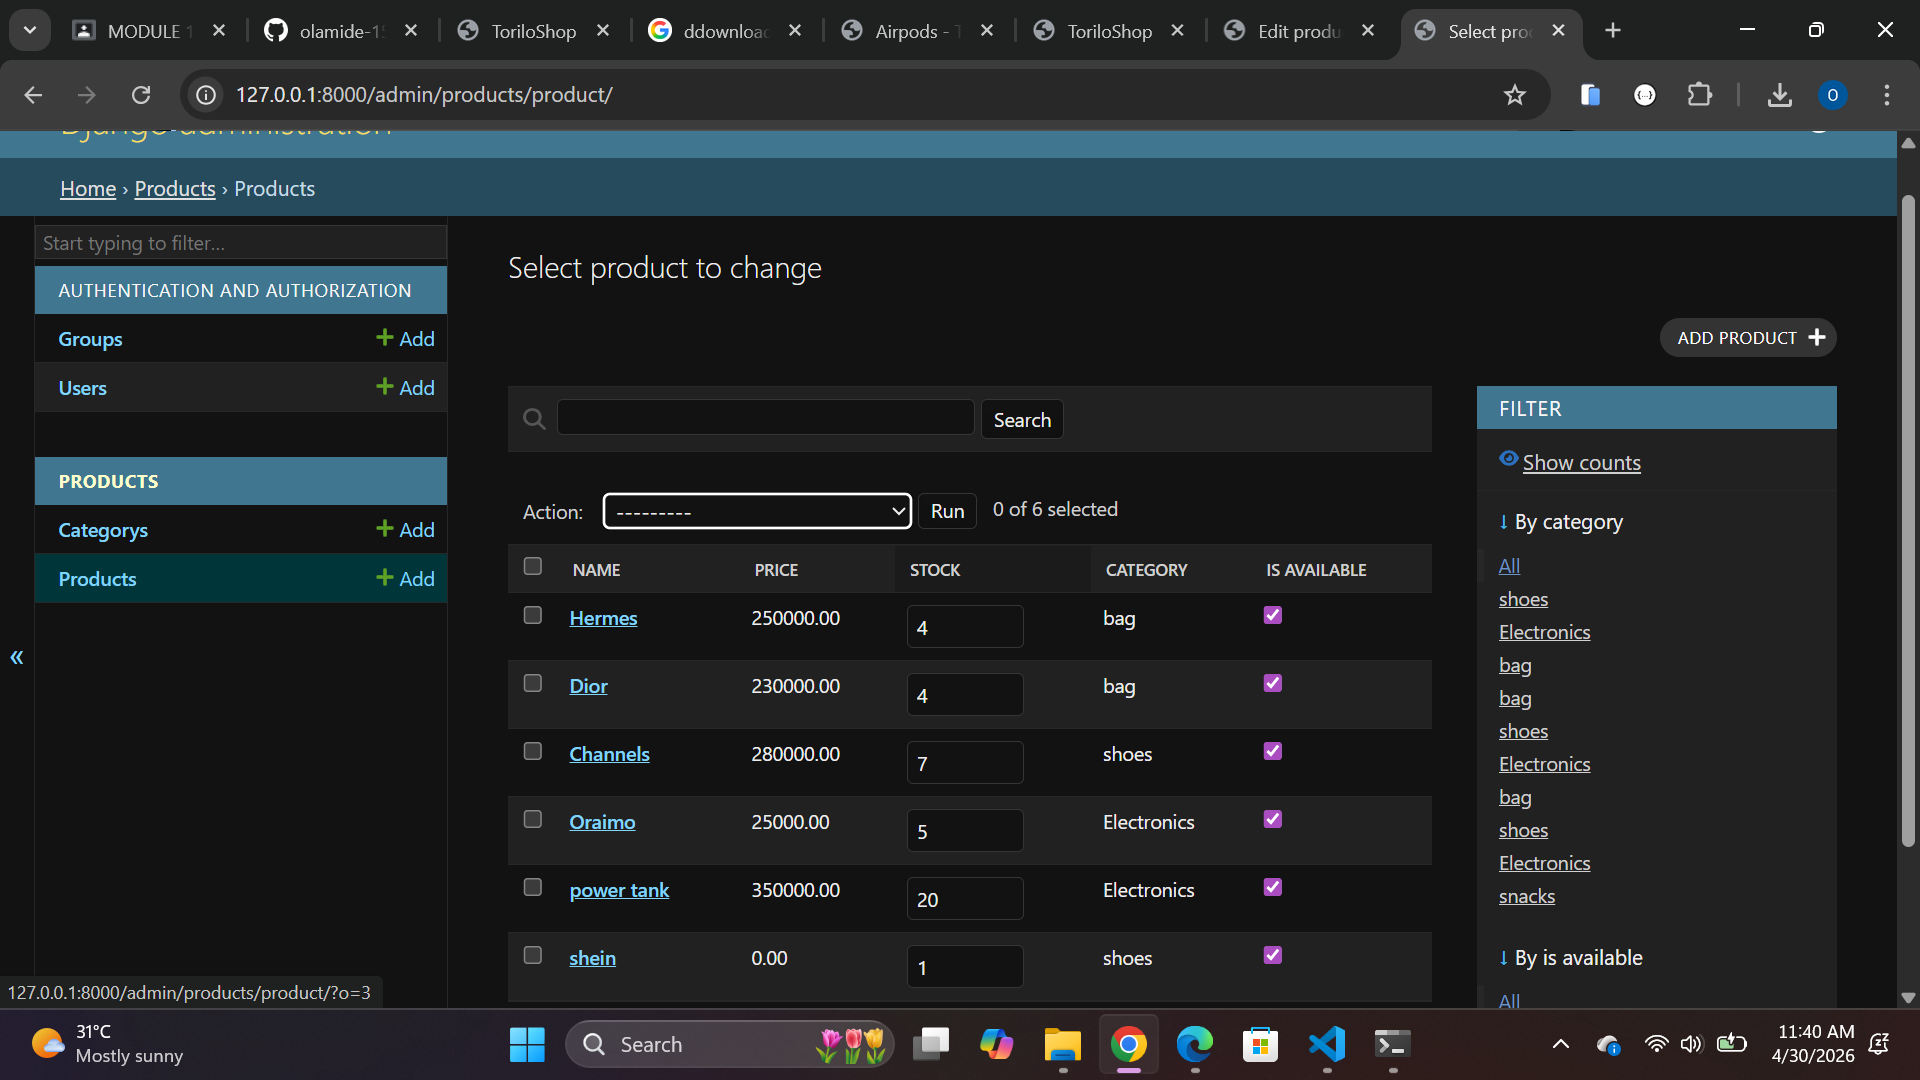
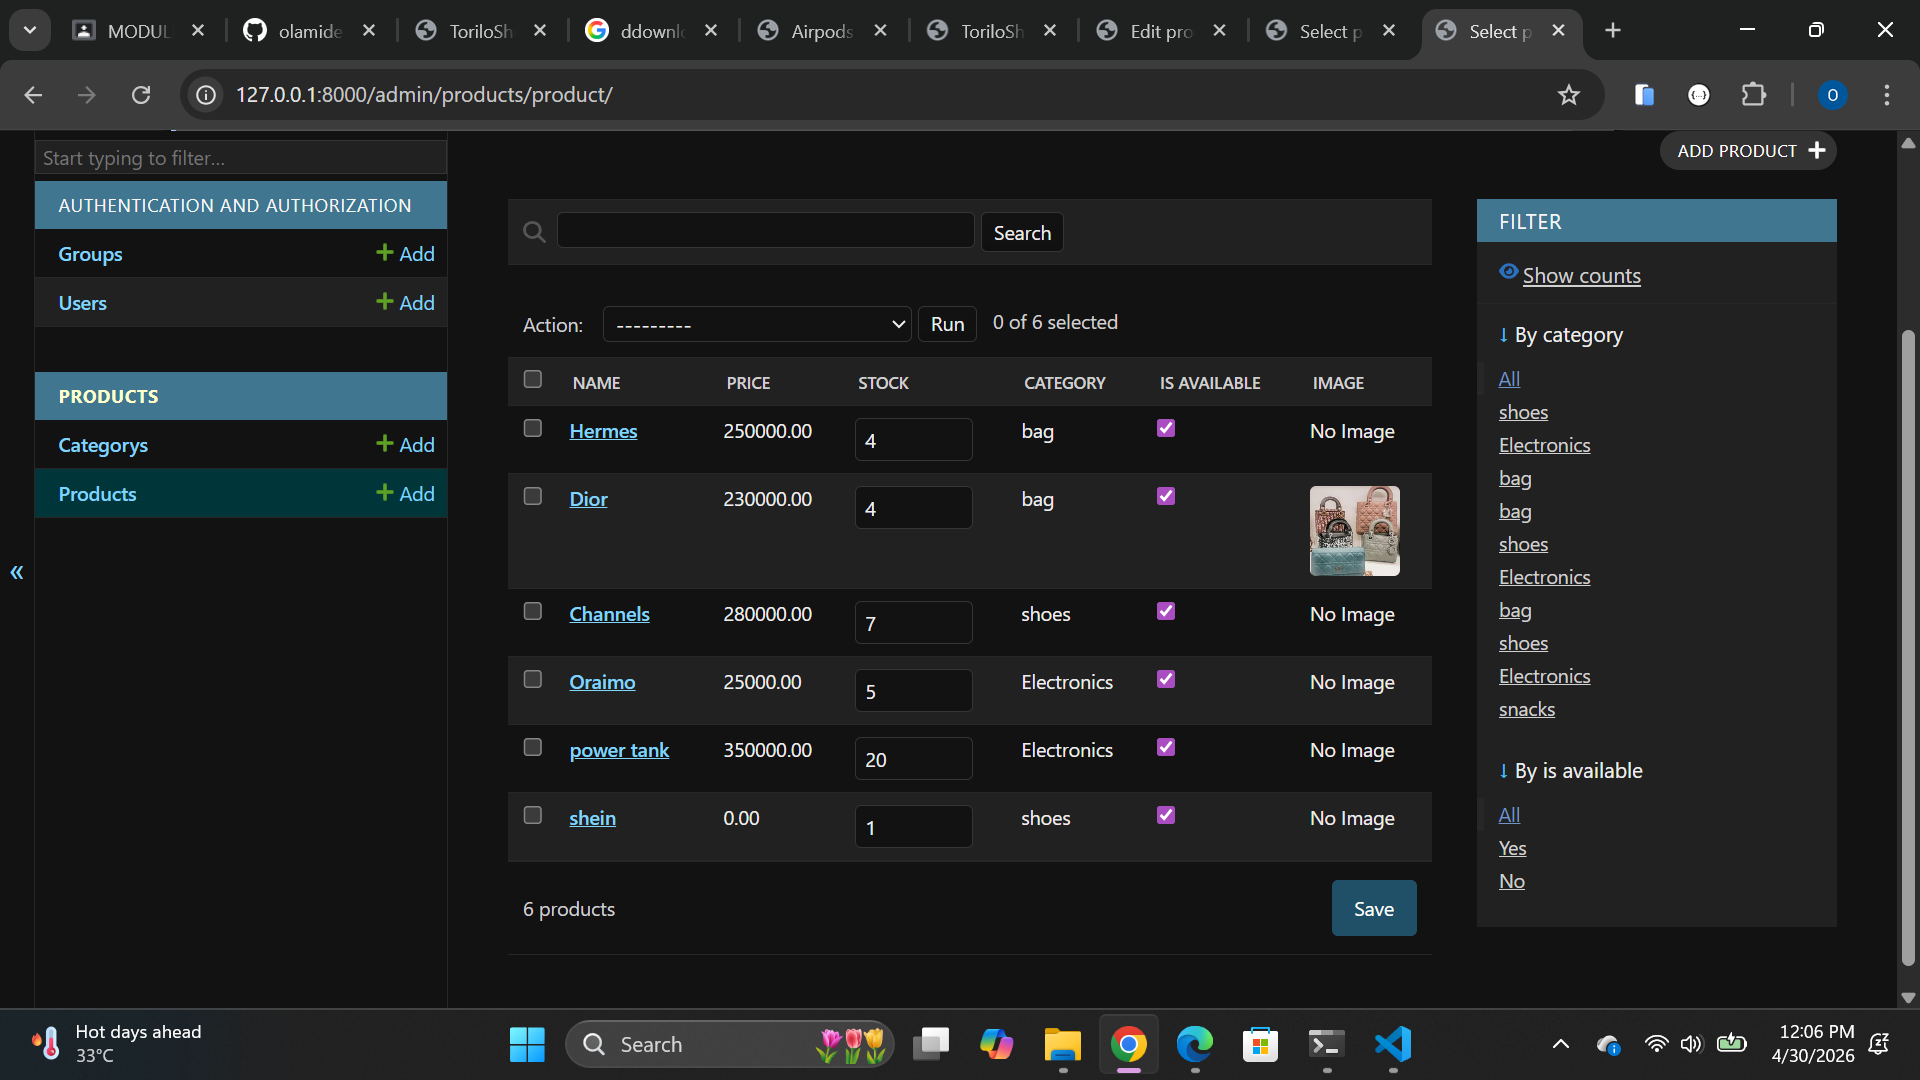
module 11

diff --git a/module-11/products/admin.py b/module-11/products/admin.py
@@ -1,16 +1,28 @@
 from django.contrib import admin
 from .models import Product, Category
+from django.utils.html import format_html
 
 # Register your models here.
 @admin.register(Product)
 class ProductAdmin(admin.ModelAdmin):
-    list_display = ['name', 'price', 'stock', 'category', 'is_available']
+    list_display = ['name', 'price', 'stock', 'category', 'is_available', 'thumbnail']
     search_fields = ['name', 'category__name']
     list_filter = ['category', 'is_available']
     list_editable = ['stock', 'is_available']
     ordering = ['created_at']
 
     actions = ['mark_out_of_stock']
+
+    def thumbnail(self, obj):
+        if obj.image:
+            return format_html(
+                '<img src="{}" width="60" height="60" '
+                'style="object-fit:cover; border-radius:4px;">',
+                obj.image.url
+            )
+        return "No Image"
+    
+    thumbnail.short_description = 'Image'
 
     def mark_out_of_stock(self, request, queryset):
         queryset.update(stock=0, is_available=False)
